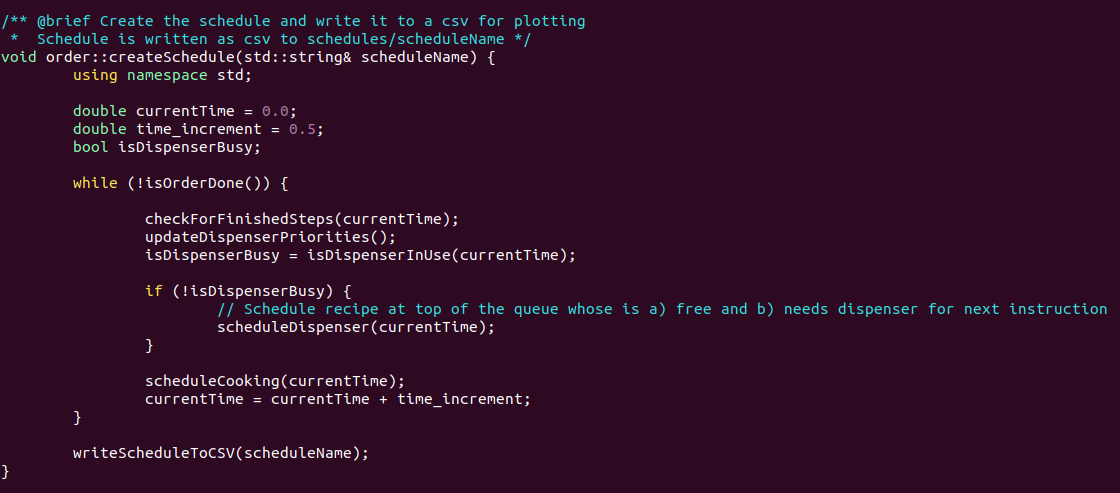
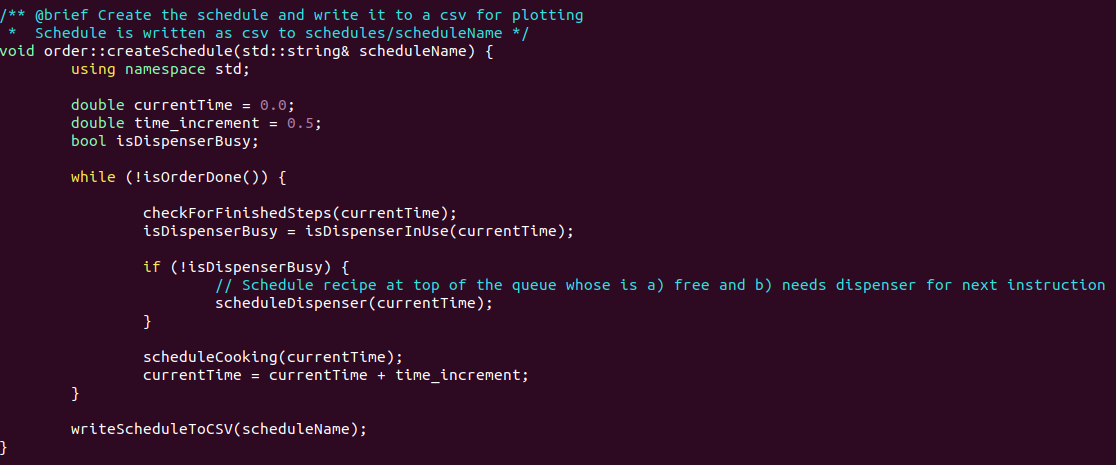
Made psuedocode more clear

diff --git a/src/order.cpp b/src/order.cpp
@@ -45,7 +45,6 @@ void order::createSchedule(std::string& scheduleName) {
 	while (!isOrderDone()) {
 		
 		checkForFinishedSteps(currentTime);			
-		updateDispenserPriorities();
 		isDispenserBusy = isDispenserInUse(currentTime);		
 
 		if (!isDispenserBusy) {
@@ -72,12 +71,6 @@ void order::writeScheduleToCSV(std::string& scheduleName) {
 		auto[recipe_id, recipe_type, startTime, duration] = *itr;
 		ofs << recipe_id << "," << recipe_type << "," << startTime << "," << duration << "\n";
 	}			
-}
-
-/** @brief Describe me */
-void order::updateDispenserPriorities() { 
-	// SORT the priority queue
-                        // Find the min element. Add a new item of even lower value. Sort the queue again 				
 }
 
 /** @brief Choose which recipe has priority on the dispenser and start that step */
